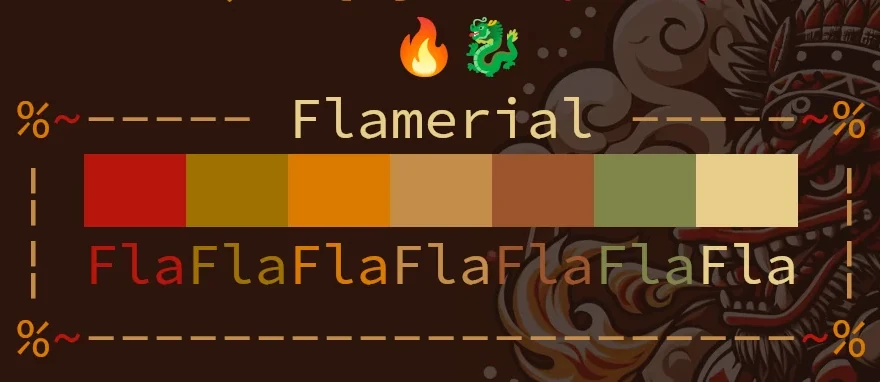
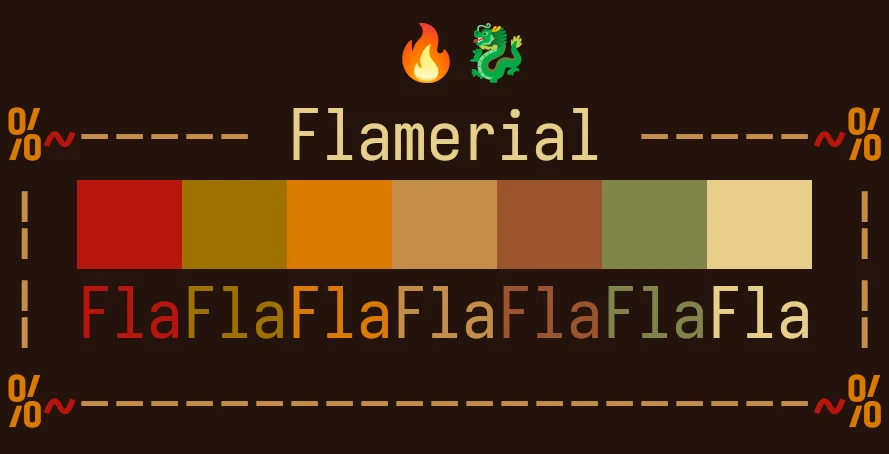
update preview

Changed region(s): [[0.0, 0.0, 1.0, 1.0], [0.4295, 0.0288, 0.6443, 0.2016], [0.0, 0.6047, 0.0614, 0.7775]]

diff --git a/README.md b/README.md
@@ -17,7 +17,7 @@
 A fiery dark terminal theme made of a balanced combination of 4 chromatic and 4 neutral colors.
 
 <p align="center"><img src="imgs/preview.webp" width="700" alt="" /></p>
-<p align="center"><sup><strong>Caption:</strong> a preview of the flamerial theme applied on a terminal. The font used is <a href="https://fonts.google.com/specimen/Source+Code+Pro">source code pro</a>.</sup></p>
+<p align="center"><sup><strong>Caption:</strong> a preview of the flamerial theme applied on a terminal. The font used is <a href="https://github.com/be5invis/Iosevka">iosevka</a>.</sup></p>
 
 ## ❡ Install
 
